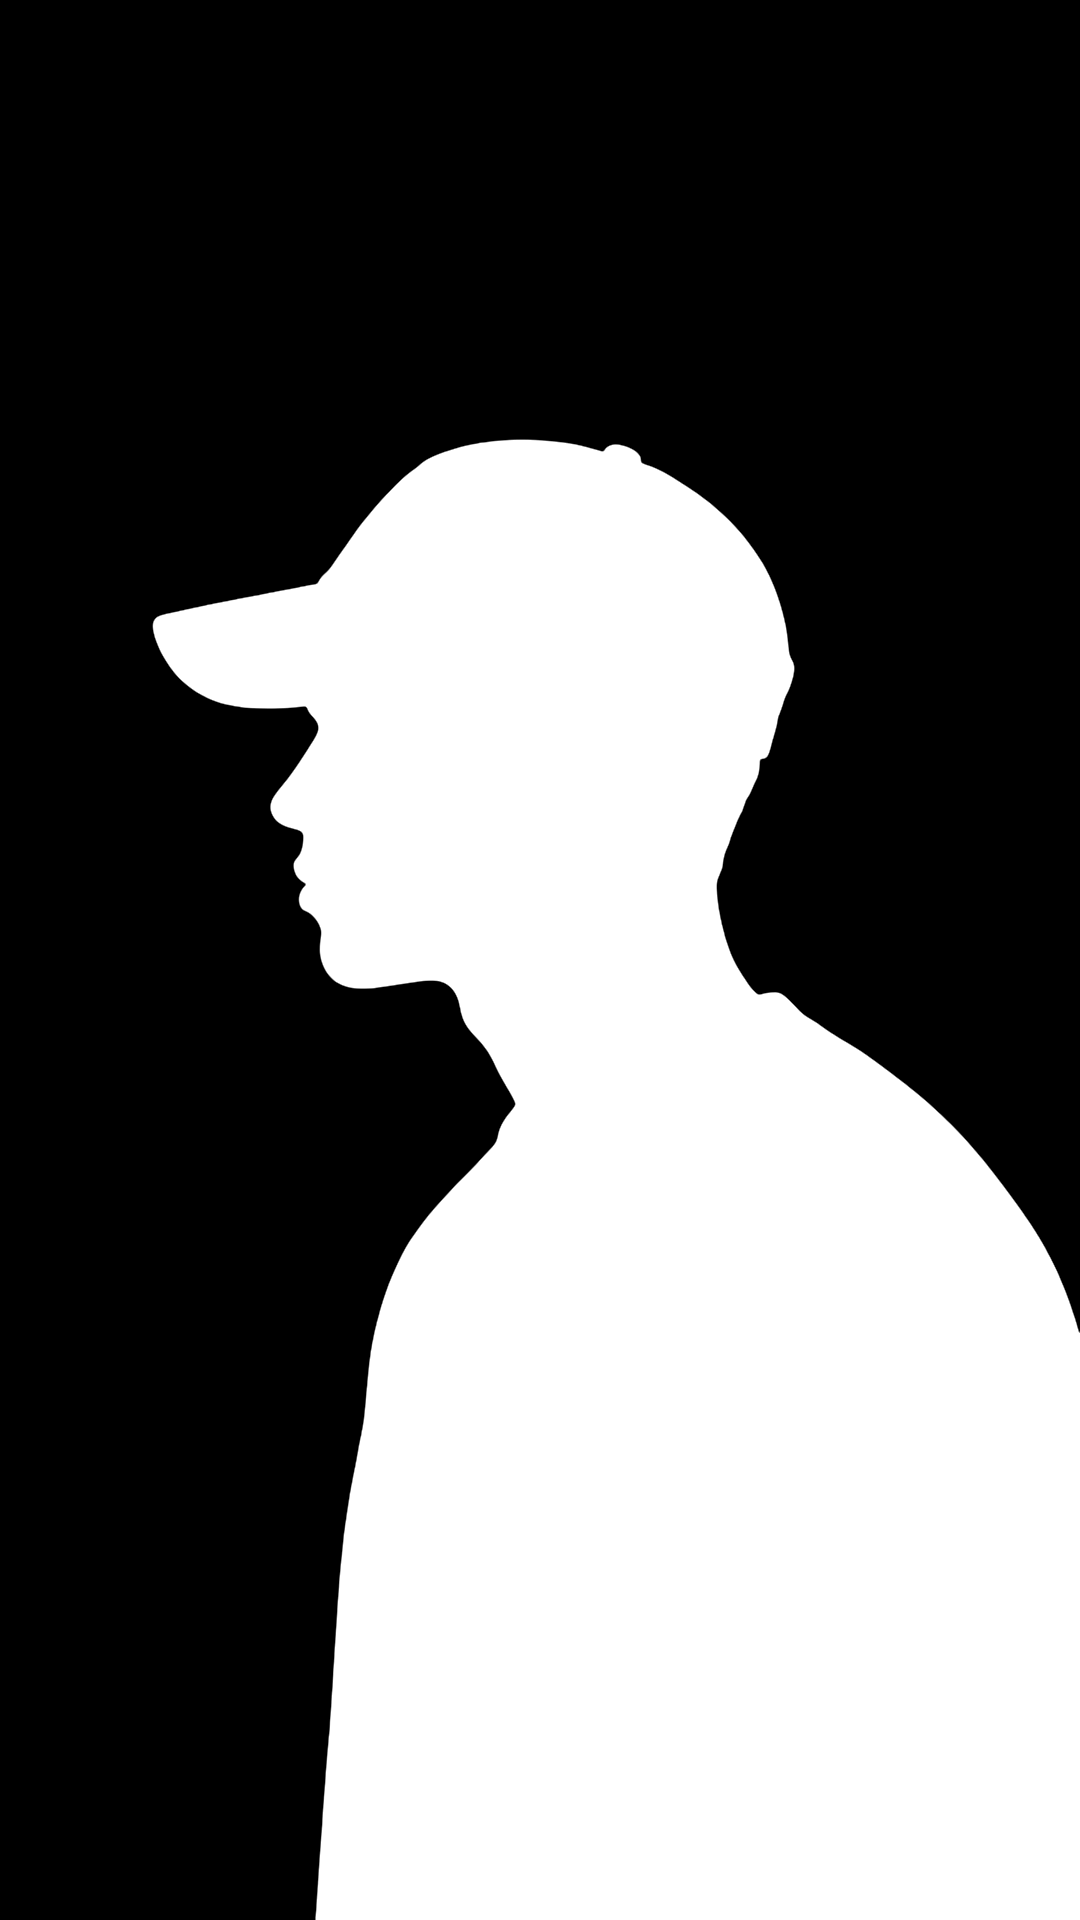
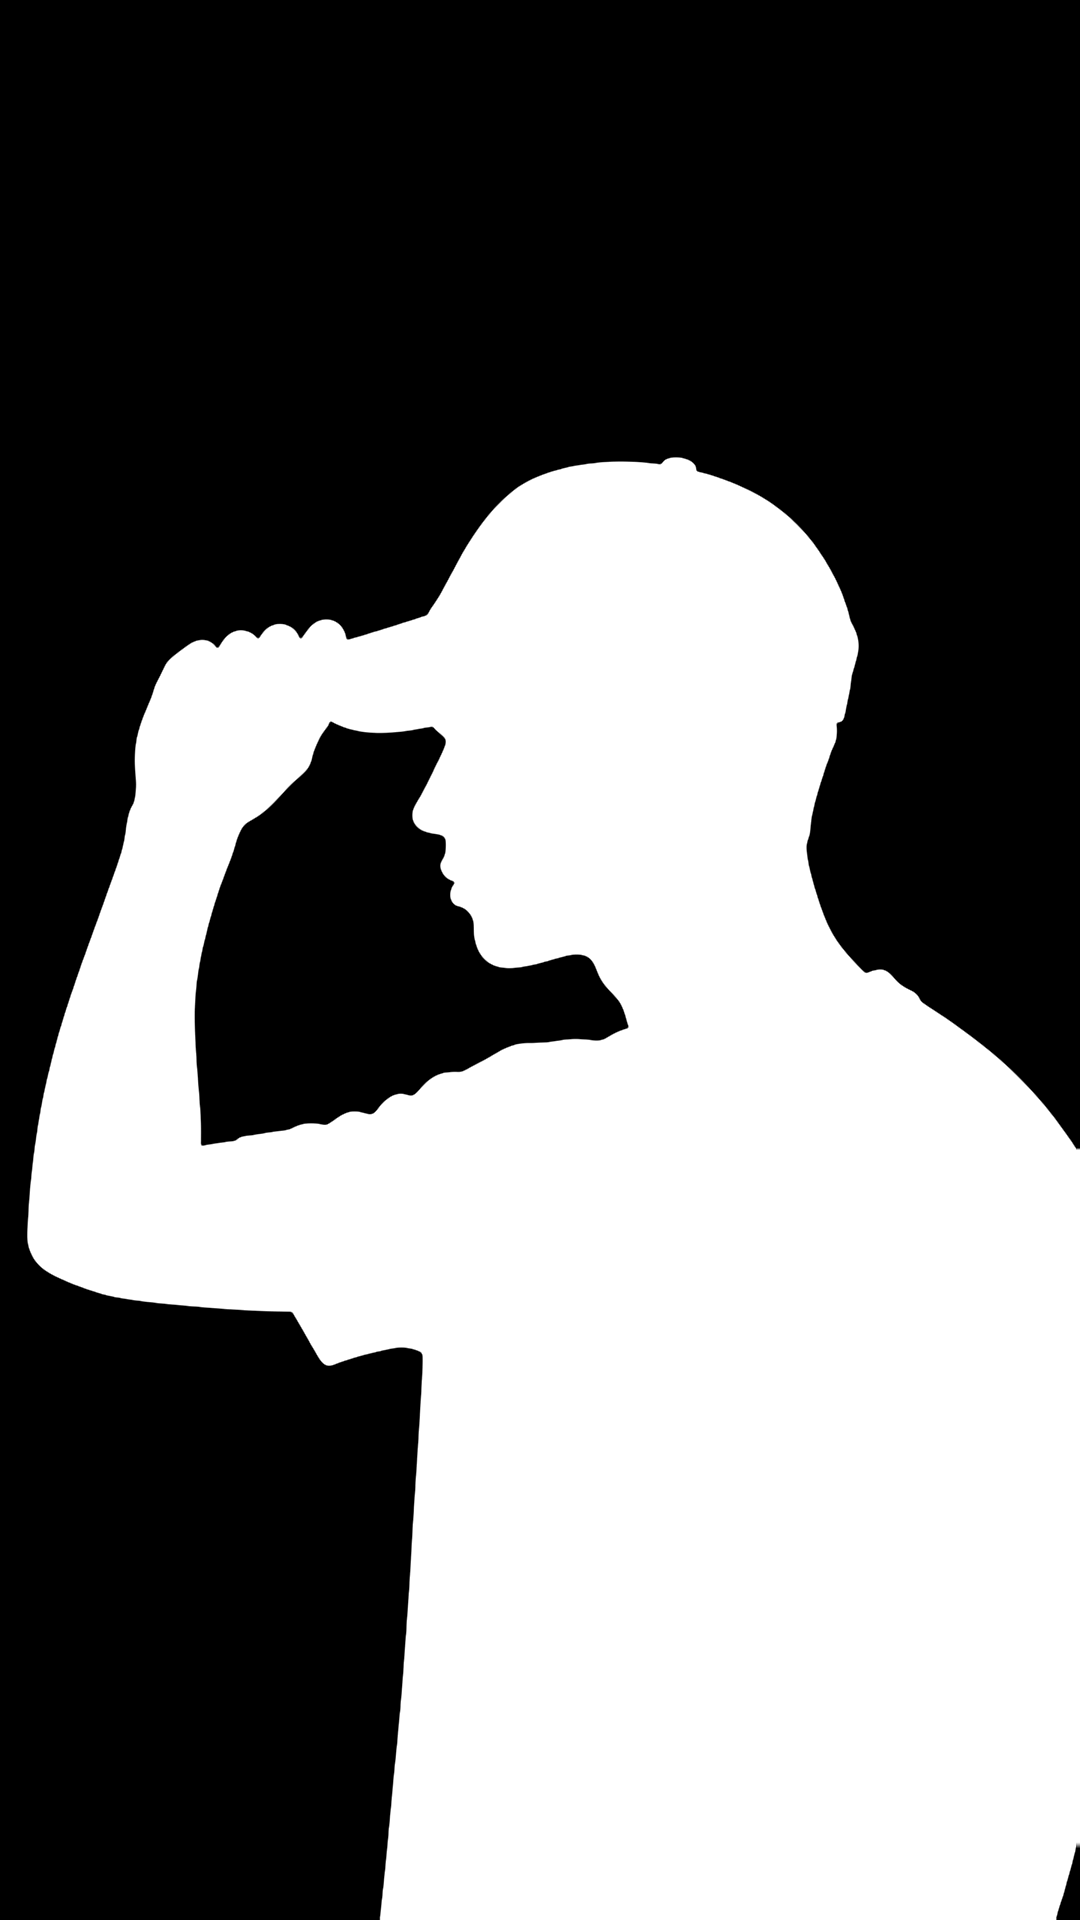
Silhouette: eight posed figures drawn full size (arms out to both edges), two men and two women a row, a lyric style per card from the song's mood

Changed region(s): [[0.0, 0.2188, 1.0, 1.0], [0.9778, 0.9688, 1.0, 1.0]]

diff --git a/creative/src/pack-silhouette.ts b/creative/src/pack-silhouette.ts
@@ -9,7 +9,7 @@ import { HEIGHT, WIDTH } from './composition';
 import type { AdFont } from './ad-fonts';
 import { hexToRgb } from './dust-colors';
 import { createTypeLayer, type TimedWord, type TypeStyleId } from './pack-type';
-import { FIGURE_SCALE, headTop } from './silhouette';
+import { headTop } from './silhouette';
 import { SAFE_BOX, coverSize, paletteOf, pictureScale, punchAt } from './window-look';
 
 /** The lyrics keep this far from the frame's sides and from the head below them, in px. */
@@ -17,6 +17,8 @@ const LYRICS_SIDE = 70;
 const LYRICS_CLEAR = 50;
 /** A short line grows up to this much to fill the room. */
 const LYRICS_GROW = 2;
+/** Room kept for a style that swells on the beat. */
+const LYRICS_SWELL = 0.92;
 const DARK_INK = '#0a0a0b';
 const LIGHT_INK = '#f7f4ee';
 
@@ -34,7 +36,7 @@ void main() {
 }
 `;
 
-/** The screen, and the picture wherever the figure is. The figure stands on the frame's bottom edge, in the middle, `FIGURE_SCALE` of the frame's size. */
+/** The screen, and the picture wherever the figure is. The figure's mask is the size of the frame. */
 const FRAGMENT = `#version 300 es
 precision highp float;
 in vec2 vFrame;
@@ -48,8 +50,7 @@ out vec4 finalColor;
 
 void main() {
   vec2 frame = vec2(${WIDTH}.0, ${HEIGHT}.0);
-  vec2 at = (vFrame - vec2(frame.x * 0.5, frame.y)) / (frame * ${FIGURE_SCALE.toFixed(3)}) + vec2(0.5, 1.0);
-  float inside = at.x < 0.0 || at.x > 1.0 || at.y < 0.0 || at.y > 1.0 ? 0.0 : texture(uFigure, at).r;
+  float inside = texture(uFigure, vFrame / frame).r;
   vec3 seen = texture(uPhoto, (vFrame - frame * 0.5) / (uCover * uPush) + 0.5).rgb;
   // On red the picture is black and white, pushed hard, like a screen print.
   float grey = dot(seen, vec3(0.2126, 0.7152, 0.0722));
@@ -114,6 +115,9 @@ export type SilhouetteWorld = { root: Container; update(input: SilhouetteInput):
 export function createSilhouetteWorld(): SilhouetteWorld {
   const root = new Container();
   const type = createTypeLayer();
+  // Measures each phrase, off screen, so a style that moves its letters is drawn at one size the whole phrase.
+  const ruler = createTypeLayer();
+  let measured: { key: string; x: number; y: number; width: number; height: number } | null = null;
   let view: { picture: Texture; figure: Texture; screen: ReturnType<typeof screen> } | null = null;
 
   function dropView() {
@@ -137,25 +141,37 @@ export function createSilhouetteWorld(): SilhouetteWorld {
 
       // The lyrics fill the solid colour above the head: as big as that room allows, never over the figure.
       const ink = input.palette === 'black' ? LIGHT_INK : DARK_INK;
-      type.root.pivot.set(0, 0);
-      type.root.position.set(0, 0);
-      type.root.scale.set(1);
-      type.paint(input.typeStyle, {
-        ms: input.ms, words: [...input.words], beat: input.beat, beatIndex: input.beatIndex, energy: input.energy, seed: input.seed,
+      const frame = {
+        words: [...input.words], beatIndex: input.beatIndex, seed: input.seed,
         ink, accent: ink, shadow: ink === DARK_INK ? '#ffffff' : '#000000', font: input.font, fontSecondary: input.font,
-      });
-      const bounds = type.root.getLocalBounds();
-      if (!input.words.length || bounds.width <= 0 || bounds.height <= 0) return;
+      };
+      type.paint(input.typeStyle, { ...frame, ms: input.ms, beat: input.beat, energy: input.energy });
+      if (!input.words.length) return;
+      // The phrase's size depends only on the phrase (never on which frame it was first seen in): the cloud draws a video in pieces.
+      const key = `${input.typeStyle}|${input.font}|${input.words.map(word => `${word.text}@${word.startMs}`).join(' ')}`;
+      if (measured?.key !== key) {
+        const ends = input.words.map(word => word.endMs);
+        let [x0, y0, x1, y1] = [Infinity, Infinity, -Infinity, -Infinity];
+        for (const ms of [...input.words.map(word => (word.startMs + word.endMs) / 2), ...ends, Math.max(...ends) + 600]) {
+          ruler.paint(input.typeStyle, { ...frame, ms, beat: 0, energy: 0 });
+          const box = ruler.root.getLocalBounds();
+          if (box.width <= 0 || box.height <= 0) continue;
+          [x0, y0, x1, y1] = [Math.min(x0, box.x), Math.min(y0, box.y), Math.max(x1, box.x + box.width), Math.max(y1, box.y + box.height)];
+        }
+        measured = x1 > x0 ? { key, x: x0, y: y0, width: x1 - x0, height: y1 - y0 } : null;
+      }
+      if (!measured) return;
       const top = SAFE_BOX.y;
       const room = headTop(input.shape) - LYRICS_CLEAR - top;
-      const fit = Math.min(LYRICS_GROW, (WIDTH - LYRICS_SIDE * 2) / bounds.width, room / bounds.height);
-      type.root.pivot.set(bounds.x + bounds.width / 2, bounds.y + bounds.height / 2);
+      const fit = LYRICS_SWELL * Math.min(LYRICS_GROW, (WIDTH - LYRICS_SIDE * 2) / measured.width, room / measured.height);
+      type.root.pivot.set(measured.x + measured.width / 2, measured.y + measured.height / 2);
       type.root.position.set(WIDTH / 2, top + room / 2);
       type.root.scale.set(fit);
     },
     destroy() {
       dropView();
       type.destroy();
+      ruler.destroy();
       root.destroy({ children: true });
     },
   };

diff --git a/creative/src/silhouette.ts b/creative/src/silhouette.ts
@@ -1,18 +1,21 @@
 /**
- * Silhouette — the figures a card can be: still, black-on-white masks of one person (a man or a woman, facing us or
- * in profile), served from `public/silhouettes/{id}.png` (white is the person). The song's video plays inside the
+ * Silhouette — the figures a card can be: still, black-on-white masks of one person in a pose (a man or a woman, facing us or
+ * in profile, a hand on the cap or in the hair, the arms out to both sides), served from `public/silhouettes/{id}.png` (white is the person). The song's video plays inside the
  * figure; the rest of the frame is one solid colour, and the lyrics sit on it above the head.
  */
 import { HEIGHT } from './composition';
+import type { TypeStyleId } from './pack-type';
 
-/** Each figure, and how far down its mask the top of the head is (a share of the mask's height). */
+/** Each figure, and how far down the frame the top of it is (a share of the height). The two with their arms out reach both sides of the frame. */
 export const SILHOUETTES = [
-  { id: 'woman-front', headAt: 0.18 },
-  { id: 'woman-side', headAt: 0.17 },
-  { id: 'woman-curls', headAt: 0.21 },
-  { id: 'man-front', headAt: 0.25 },
+  { id: 'man-cap', headAt: 0.238 },
+  { id: 'woman-hair', headAt: 0.241 },
+  { id: 'man-wide', headAt: 0.249 },
+  { id: 'woman-wide', headAt: 0.246 },
+  { id: 'woman-curls', headAt: 0.239 },
   { id: 'man-hood', headAt: 0.21 },
-  { id: 'man-cap', headAt: 0.23 },
+  { id: 'woman-head', headAt: 0.218 },
+  { id: 'man-head', headAt: 0.267 },
 ] as const;
 
 export type SilhouetteId = (typeof SILHOUETTES)[number]['id'];
@@ -21,14 +24,14 @@ export const SILHOUETTE_IDS: readonly string[] = SILHOUETTES.map(figure => figur
 /** The screens a Silhouette card is dealt in (ids of `WINDOW_PALETTES`). */
 export const SILHOUETTE_SCREENS = ['red', 'black', 'off-white'] as const;
 
-/** The figure is drawn this big against the frame, standing on its bottom edge in the middle: the room above its head is the lyrics'. */
-export const FIGURE_SCALE = 0.8;
+/** The lyric styles a Silhouette card is dealt: each card of a row has its own. */
+export const SILHOUETTE_TYPES = ['stack', 'karaoke', 'outline', 'editorial', 'glitch', 'echo', 'wipe', 'flicker', 'slide', 'bounce', 'zoom'] as const satisfies readonly TypeStyleId[];
 
 export const silhouetteUrl = (id: string) => `/silhouettes/${id}.png`;
 
-/** How far down the frame the top of this figure's head is, in px. */
+/** How far down the frame the top of this figure is, in px. A figure fills the whole frame. */
 export function headTop(id: string): number {
   const figure = SILHOUETTES.find(candidate => candidate.id === id);
   if (!figure) throw new Error(`There is no silhouette "${id}".`);
-  return HEIGHT - FIGURE_SCALE * HEIGHT * (1 - figure.headAt);
+  return HEIGHT * figure.headAt;
 }

diff --git a/creative/src/window-deal.ts b/creative/src/window-deal.ts
@@ -6,13 +6,14 @@
  */
 import { hashPick, type AdFont } from './ad-fonts';
 import { WINDOW_FACES } from './window-look';
-import { SILHOUETTE_IDS, SILHOUETTE_SCREENS } from './silhouette';
+import { SILHOUETTE_IDS, SILHOUETTE_SCREENS, SILHOUETTE_TYPES } from './silhouette';
+import type { TypeStyleId } from './pack-type';
 
 /** What the picture is seen through: the lyric word (`plain`), or the figure of a person (`silhouette`, Silhouette's cards). */
 export type WindowMode = 'plain' | 'silhouette';
 
 /** One card: its screen (the only one it is allowed, so it never flips), its face and, for Silhouette, its figure. */
-export type WindowCard = { mode: WindowMode; palette: string; allowed: string[]; font: AdFont; shape?: string };
+export type WindowCard = { mode: WindowMode; palette: string; allowed: string[]; font: AdFont; shape?: string; type?: TypeStyleId };
 
 const CARDS = 4;
 
@@ -30,13 +31,15 @@ export function dealWindow(seed: string): WindowCard[] {
   });
 }
 
-/** Four Silhouette cards: four different figures, the screens red, black and white taking turns from the seed's pick. */
-export function dealSilhouette(seed: string): WindowCard[] {
+/** Four Silhouette cards: four different figures (two men and two women, taking turns) and lyric styles (those of `SILHOUETTE_TYPES` the song's mood allows), the screens red, black and white taking turns from the seed's pick. */
+export function dealSilhouette(seed: string, moodTypes: readonly TypeStyleId[]): WindowCard[] {
   const faces = order(WINDOW_FACES, `${seed}:faces`, face => face);
-  const figures = order(SILHOUETTE_IDS, `${seed}:figures`, id => id);
+  const [men, women] = ['man-', 'woman-'].map(kind => order(SILHOUETTE_IDS.filter(id => id.startsWith(kind)), `${seed}:figures`, id => id));
+  const manFirst = hashPick(seed, 'figure', 2) === 0;
+  const types = order(SILHOUETTE_TYPES.filter(type => moodTypes.includes(type)), `${seed}:types`, type => type);
   const first = hashPick(seed, 'screen', SILHOUETTE_SCREENS.length);
   return Array.from({ length: CARDS }, (_, index) => {
     const palette = SILHOUETTE_SCREENS[(first + index) % SILHOUETTE_SCREENS.length];
-    return { mode: 'silhouette', palette, allowed: [palette], font: faces[index], shape: figures[index] };
+    return { mode: 'silhouette', palette, allowed: [palette], font: faces[index], shape: (index % 2 === 0) === manFirst ? men[index >> 1] : women[index >> 1], type: types[index % types.length] };
   });
 }

diff --git a/creative/src/creatives-pack.ts b/creative/src/creatives-pack.ts
@@ -536,7 +536,7 @@ export function recommendRow(row: ShelfRow, profile: CreativeProfileV1, generati
     looks: () => bankSlots(lane, meaning, intent, seed, ROW_SIZE, cover),
     riso: () => risoSlots(lane, intent, seed, risoPhotos),
     window: () => windowSlots(lane, intent, seed, ownPicture ? [] : pickLibrary(from(), wanted, profile.clip.sourceSha256, generation, ROW_SIZE), ownPicture ? [] : plates),
-    silhouette: () => (GOSPEL_GENRE.test(`${genre} ${profile.creator.subGenre?.value ?? ''}`.toLowerCase()) ? [] : windowSlots(lane, intent, seed, ownPicture ? [] : pickLibrary(from(), wanted, profile.clip.sourceSha256, generation, ROW_SIZE), ownPicture ? [] : plates, dealSilhouette(seed))),
+    silhouette: () => (GOSPEL_GENRE.test(`${genre} ${profile.creator.subGenre?.value ?? ''}`.toLowerCase()) ? [] : windowSlots(lane, intent, seed, ownPicture ? [] : pickLibrary(from(), wanted, profile.clip.sourceSha256, generation, ROW_SIZE), ownPicture ? [] : plates, dealSilhouette(seed, TYPE_ALLOW[lane]))),
     pulise: () => puliseSlots(lane, intent, seed),
     dust: () => dustSlots(lane, intent, seed, cover?.hue, photos),
   }[row]();
@@ -620,6 +620,7 @@ function windowSlots(lane: MoodLane, intent: MusicIntentV1 | null, seed: string,
       windowPalette: card.palette,
       windowAllowed: card.allowed,
       ...(card.shape ? { windowShape: card.shape } : {}),
+      ...(card.type ? { typeStyle: card.type } : {}),
       ...(pick ? { libraryId: pick.id } : {}),
       ...(plate ? { plateId: plate.id } : {}),
       cutSeed: hashPick(seed, 'cut', 250_000) * 4 + index,

diff --git a/creative/src/pack-renderer.ts b/creative/src/pack-renderer.ts
@@ -90,6 +90,7 @@ export type PackRendererOpts = {
 
 /** The font families a card draws with, so each is fetched (from this site) the first time a card needs it, not before. */
 function familiesFor(opts: PackRendererOpts): string[] {
+  if (opts.style === 'window' && opts.typeStyle) return [...new Set([opts.font, ...typeFamilies(opts.typeStyle, opts)])];
   if (opts.style === 'dust' || opts.style === 'riso' || opts.style === 'window') return [opts.font];
   if (opts.style === 'pulise') return [opts.font, opts.fontSecondary];
   const recording = opts.preset === 'vhs' && opts.presetTake === 'rec' ? [REC_FONT] : [];

diff --git a/audio-intelligence/modal_creatives_encode_staging.py b/audio-intelligence/modal_creatives_encode_staging.py
@@ -89,7 +89,7 @@ WINDOW_FACES = {"Anton", "Big Shoulders Display", "Staatliches", "Bangers", "Bar
 WINDOW_MODES = {"plain", "silhouette"}
 WINDOW_SCREENS = {"plain": {"black", "off-white"}, "silhouette": {"red", "black", "off-white"}}
 # The figures of creative/public/silhouettes (creative/src/silhouette.ts).
-WINDOW_SHAPES = {"woman-front", "woman-side", "woman-curls", "man-front", "man-hood", "man-cap"}
+WINDOW_SHAPES = {"man-cap", "woman-hair", "man-wide", "woman-wide", "woman-curls", "man-hood", "woman-head", "man-head"}
 WINDOW_KEYS = ("windowMode", "windowPalette", "windowAllowed")
 # Styles drawn from a person cut out of a photo: an approved plate (`plateId`) or the person's own photo and cut-out mask.
 CUT_OUT_STYLES = {"dust", "riso"}
@@ -301,7 +301,7 @@ def parse_meta(raw: str) -> dict:
             raise ValueError("windowAllowed")
         if not all(isinstance(id_, str) and id_ in WINDOW_SCREENS[opts["windowMode"]] for id_ in allowed) or opts["windowPalette"] not in allowed:
             raise ValueError("windowPalette")
-        if (opts["windowMode"] == "silhouette") != ("windowShape" in opts) or opts.get("windowShape", "woman-front") not in WINDOW_SHAPES:
+        if (opts["windowMode"] == "silhouette") != ("windowShape" in opts) or ("windowShape" in opts and opts["windowShape"] not in WINDOW_SHAPES):
             raise ValueError("windowShape")
         if opts["font"] not in WINDOW_FACES:
             raise ValueError("font")
